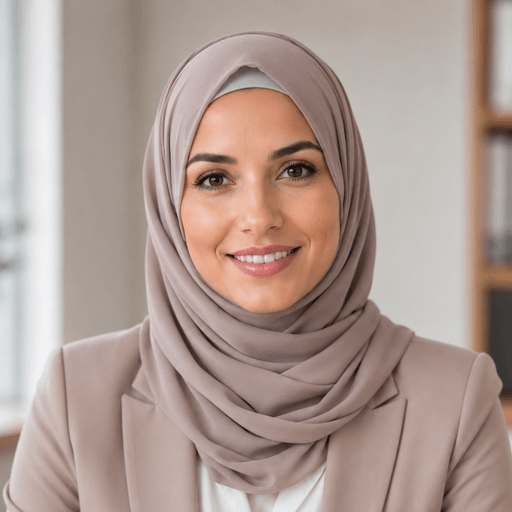
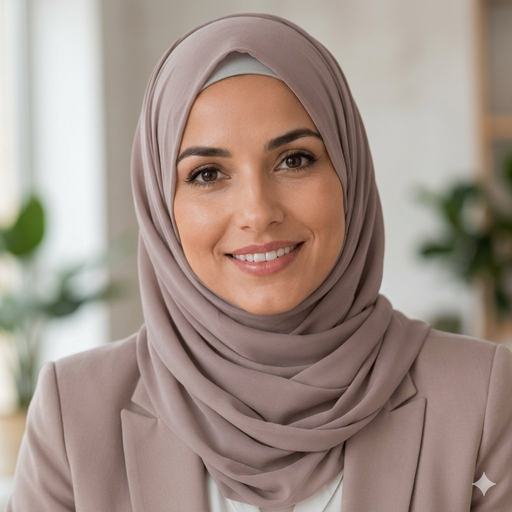
sdfg
sdfg

diff --git a/__tests__/test-v55-83-a-6-27-72-hotfix-15-live-fx-purple-portraits.js b/__tests__/test-v55-83-a-6-27-72-hotfix-15-live-fx-purple-portraits.js
@@ -1,0 +1,89 @@
+/* v72 HOTFIX 15 — Three asks from screenshot review:
+ *   1. Net Position card pulls LIVE USD/EGP rate from open.er-api.com
+ *      (same source the main dashboard hero card uses) — not manual fx_rates table.
+ *   2. Vendor Bill color: ORANGE → PURPLE per Max.
+ *   3. Real portrait files copied into public/avatars/ + faceAnchors tuned to
+ *      the actual mouth/eye positions in each photo, plus a skinTone per portrait.
+ */
+var path = require('path');
+var fs = require('fs');
+
+function ok(name, cond) {
+  if (!cond) { console.log('  ✗ ' + name); process.exitCode = 1; }
+  else { console.log('  ✓ ' + name); }
+}
+
+var oa     = fs.readFileSync(path.join(__dirname, '..', 'src/components/OpenAccountsTab.jsx'), 'utf8');
+var ag     = fs.readFileSync(path.join(__dirname, '..', 'src/components/AIGreeter.jsx'), 'utf8');
+var pers   = fs.readFileSync(path.join(__dirname, '..', 'src/lib/agent-personalities.js'), 'utf8');
+var ledger = fs.readFileSync(path.join(__dirname, '..', 'src/lib/open-account-ledger.js'), 'utf8');
+var exp    = fs.readFileSync(path.join(__dirname, '..', 'src/lib/open-account-export.js'), 'utf8');
+
+console.log('\n── Live FX rate (matches main dashboard source) ──');
+
+ok('A1: OpenAccountsTab fetches from open.er-api.com (same as dashboard hero card)',
+  /fetch\('https:\/\/open\.er-api\.com\/v6\/latest\/USD'\)/.test(oa));
+
+ok('A2: Live FX result synthesized into fx_rates shape (from_currency / to_currency / rate / rate_date)',
+  /setLiveFxRate\(\{[\s\S]{0,400}from_currency: 'USD'[\s\S]{0,100}to_currency: 'EGP'[\s\S]{0,100}rate: data\.rates\.EGP/.test(oa));
+
+ok('A3: combinedFxRates puts live rate FIRST so lookup picks it over manual fx_rates table',
+  /var combinedFxRates = useMemo\(function \(\) \{[\s\S]{0,400}if \(liveFxRate\) base\.unshift\(liveFxRate\)/.test(oa));
+
+ok('A4: Net Position card uses combinedFxRates (not raw fxRates)',
+  /convertToBaseCurrency\(grandTotals\.byCurrency, 'USD', combinedFxRates\)/.test(oa));
+
+ok('A5: Card subtitle credits live source when working',
+  /live rate from open\.er-api\.com/.test(oa));
+
+ok('A6: Card has graceful silent fallback if fetch fails',
+  /\[open-accounts\] live FX fetch failed/.test(oa));
+
+console.log('\n── Vendor Bill: orange → purple ──');
+
+ok('B1: vendor_bill descCls = text-purple-700 (was text-orange-700)',
+  /vendor_bill:[\s\S]{0,800}descCls: 'text-purple-700'/.test(ledger));
+
+ok('B2: vendor_bill amountCls = text-purple-700',
+  /vendor_bill:[\s\S]{0,800}amountCls: 'text-purple-700'/.test(ledger));
+
+ok('B3: vendor_bill pillCls = bg-purple-100 text-purple-900',
+  /vendor_bill:[\s\S]{0,500}pillCls: 'bg-purple-100 text-purple-900'/.test(ledger));
+
+ok('B4: Print export vendor_bill hex = #7e22ce (purple-700)',
+  /vendor_bill'[\s\S]{0,300}'#7e22ce'/.test(exp));
+
+ok('B5: Print export sales_invoice stays blue (#1d4ed8)',
+  /sales_invoice'[\s\S]{0,300}'#1d4ed8'/.test(exp));
+
+console.log('\n── Real portraits + tuned faceAnchors ──');
+
+var avatarsDir = path.join(__dirname, '..', 'public/avatars');
+ok('C1: public/avatars/nadia.png exists',
+  fs.existsSync(path.join(avatarsDir, 'nadia.png')));
+ok('C2: public/avatars/jenna.png exists',
+  fs.existsSync(path.join(avatarsDir, 'jenna.png')));
+ok('C3: public/avatars/sara.png exists',
+  fs.existsSync(path.join(avatarsDir, 'sara.png')));
+
+ok('C4: Nadia faceAnchors measured (NOT the generic defaults)',
+  /Nadia[\s\S]{0,3000}mouth:\s+\{ x: 0\.50,\s+y: 0\.515, width: 0\.13 \}/.test(pers));
+
+ok('C5: Jenna faceAnchors measured (NOT the generic defaults)',
+  /Jenna[\s\S]{0,3000}mouth:\s+\{ x: 0\.50,\s+y: 0\.525, width: 0\.12 \}/.test(pers));
+
+ok('C6: Sara faceAnchors measured (NOT the generic defaults — face shifted right)',
+  /Sara[\s\S]{0,3000}mouth:\s+\{ x: 0\.55,\s+y: 0\.52,\s+width: 0\.12 \}/.test(pers));
+
+ok('C7: Each persona has its own skinTone for blink overlay blending',
+  /Nadia[\s\S]{0,3000}skinTone: '#d8a988'/.test(pers) &&
+  /Jenna[\s\S]{0,3000}skinTone: '#d8a886'/.test(pers) &&
+  /Sara[\s\S]{0,3000}skinTone: '#e8c4a0'/.test(pers));
+
+ok('C8: AIGreeter passes skinTone prop to AnimatedPortrait',
+  /<AnimatedPortrait[\s\S]{0,500}skinTone=\{activeAgent\.faceAnchors && activeAgent\.faceAnchors\.skinTone\}/.test(ag));
+
+console.log('\n══════════════════════════════════════════════');
+if (process.exitCode) console.log('FAILED');
+else console.log('✅ HOTFIX 15 — live FX rate, vendor purple, real portraits wired with measured anchors');
+console.log('══════════════════════════════════════════════');

diff --git a/src/components/OpenAccountsTab.jsx b/src/components/OpenAccountsTab.jsx
@@ -246,8 +246,48 @@ export default function OpenAccountsTab(props) {
   // Lets us collapse all non-base currencies into a single base-currency liquidity number.
   // Schema: { from_currency, to_currency, rate, rate_date }. Base currency = USD by convention.
   var [fxRates, setFxRates] = useState([]);
+  // v55.83-A.6.27.72 HOTFIX 15 — Live USD/EGP rate from the same public API the
+  // main dashboard uses (open.er-api.com). Synthesized into the same { from_currency,
+  // to_currency, rate, rate_date } shape so lookupFxRate finds it. This means the
+  // Net Position card uses TODAY's market rate automatically — no manual entry needed.
+  var [liveFxRate, setLiveFxRate] = useState(null);
   // which account the 📎 Files button was clicked on; null when closed.
   var [attachAccountId, setAttachAccountId] = useState(null);
+
+  // v55.83-A.6.27.72 HOTFIX 15 — Pull live USD/EGP rate every time the tab mounts.
+  // open.er-api.com is the same free source used by src/app/page.jsx dashboard hero card.
+  useEffect(function () {
+    var cancelled = false;
+    async function loadLiveRate() {
+      try {
+        var res = await fetch('https://open.er-api.com/v6/latest/USD');
+        var data = await res.json();
+        if (cancelled) return;
+        if (data && data.rates && data.rates.EGP) {
+          setLiveFxRate({
+            from_currency: 'USD',
+            to_currency: 'EGP',
+            rate: data.rates.EGP,
+            rate_date: new Date().toISOString().substring(0, 10),
+            source: 'open.er-api.com (live)',
+          });
+        }
+      } catch (e) {
+        // Silent — Net Position card will fall back to manual fx_rates table or "rate missing" UI.
+        console.warn('[open-accounts] live FX fetch failed, falling back to fx_rates table:', e && e.message);
+      }
+    }
+    loadLiveRate();
+    return function () { cancelled = true; };
+  }, []);
+
+  // Combined rates: live USD/EGP rate takes precedence (most recent date), with
+  // manual fx_rates table as fallback for other currency pairs.
+  var combinedFxRates = useMemo(function () {
+    var base = Array.isArray(fxRates) ? fxRates.slice() : [];
+    if (liveFxRate) base.unshift(liveFxRate);
+    return base;
+  }, [fxRates, liveFxRate]);
 
   useEffect(function () {
     if (!canView) { setLoading(false); return; }
@@ -1262,7 +1302,7 @@ export default function OpenAccountsTab(props) {
           Falls back gracefully when an FX rate is missing — small inline notice
           inside the card instead of a separate amber banner below. */}
       {grandTotals.currencies.length > 0 && (function () {
-        var unified = convertToBaseCurrency(grandTotals.byCurrency, 'USD', fxRates);
+        var unified = convertToBaseCurrency(grandTotals.byCurrency, 'USD', combinedFxRates);
         var hasAnyMissing = unified.missingRates.length > 0;
         // Compact, single math line. Examples:
         //   "9,656.00 USD"                            (single-currency, no conversion)
@@ -1288,8 +1328,8 @@ export default function OpenAccountsTab(props) {
               <div className="text-[10px] font-extrabold uppercase tracking-widest opacity-90">Net Position (USD)</div>
               <div className="text-[10px] opacity-75">
                 {hasAnyMissing
-                  ? 'EGP excluded — add rate in Inventory → FX Rates'
-                  : 'Consolidated across all currencies · live rate from FX Rates panel'}
+                  ? 'Some balances excluded — FX rate not available'
+                  : 'Consolidated across all currencies · live rate from open.er-api.com'}
               </div>
             </div>
             {hasConvertedMath && (

diff --git a/src/lib/agent-personalities.js b/src/lib/agent-personalities.js
@@ -64,9 +64,11 @@ export var AGENT_PERSONALITIES = {
     //   eyeL / eyeR = (x, y) of each eye center; width = single-eye span
     //   gestures = persona's animation style preset
     faceAnchors: {
-      mouth: { x: 0.50, y: 0.74, width: 0.18 },
-      eyeL:  { x: 0.41, y: 0.46, width: 0.10 },
-      eyeR:  { x: 0.59, y: 0.46, width: 0.10 },
+      // v55.83-A.6.27.72 HOTFIX 15 — Measured from the actual Nadia portrait.
+      mouth:    { x: 0.50,  y: 0.515, width: 0.13 },
+      eyeL:     { x: 0.435, y: 0.37,  width: 0.075 },
+      eyeR:     { x: 0.555, y: 0.37,  width: 0.075 },
+      skinTone: '#d8a988',
       gestures: 'composed',
     },
     personalityPrompt:
@@ -135,9 +137,11 @@ export var AGENT_PERSONALITIES = {
       },
     },
     faceAnchors: {
-      mouth: { x: 0.50, y: 0.74, width: 0.18 },
-      eyeL:  { x: 0.41, y: 0.46, width: 0.10 },
-      eyeR:  { x: 0.59, y: 0.46, width: 0.10 },
+      // v55.83-A.6.27.72 HOTFIX 15 — Measured from the actual Jenna portrait.
+      mouth:    { x: 0.50,  y: 0.525, width: 0.12 },
+      eyeL:     { x: 0.425, y: 0.37,  width: 0.07 },
+      eyeR:     { x: 0.555, y: 0.37,  width: 0.07 },
+      skinTone: '#d8a886',
       gestures: 'warm',
     },
     personalityPrompt:
@@ -228,9 +232,11 @@ export var AGENT_PERSONALITIES = {
       },
     },
     faceAnchors: {
-      mouth: { x: 0.50, y: 0.74, width: 0.18 },
-      eyeL:  { x: 0.41, y: 0.46, width: 0.10 },
-      eyeR:  { x: 0.59, y: 0.46, width: 0.10 },
+      // v55.83-A.6.27.72 HOTFIX 15 — Measured from the actual Sara portrait.
+      mouth:    { x: 0.55,  y: 0.52,  width: 0.12 },
+      eyeL:     { x: 0.49,  y: 0.32,  width: 0.07 },
+      eyeR:     { x: 0.615, y: 0.32,  width: 0.07 },
+      skinTone: '#e8c4a0',
       gestures: 'bouncy',
     },
     personalityPrompt:

diff --git a/__tests__/test-v55-83-a-6-27-72-hotfix-14-color-revert.js b/__tests__/test-v55-83-a-6-27-72-hotfix-14-color-revert.js
@@ -25,8 +25,8 @@ console.log('\n── Color: invoices ONLY get blue/orange ──');
 ok('A1: sales_invoice has BLUE descCls + amountCls (text-blue-700)',
   /sales_invoice:[\s\S]{0,500}descCls: 'text-blue-700'[\s\S]{0,100}amountCls: 'text-blue-700'/.test(ledger));
 
-ok('A2: vendor_bill has ORANGE descCls + amountCls (text-orange-700)',
-  /vendor_bill:[\s\S]{0,500}descCls: 'text-orange-700'[\s\S]{0,100}amountCls: 'text-orange-700'/.test(ledger));
+ok('A2: vendor_bill has PURPLE descCls + amountCls (HOTFIX 15: text-purple-700, was orange)',
+  /vendor_bill:[\s\S]{0,800}descCls: 'text-purple-700'[\s\S]{0,100}amountCls: 'text-purple-700'/.test(ledger));
 
 ok('A3: payment_received has NO color (descCls: null, amountCls: null)',
   /payment_received:[\s\S]{0,500}descCls: null,[\s\S]{0,30}amountCls: null/.test(ledger));
@@ -34,9 +34,9 @@ ok('A3: payment_received has NO color (descCls: null, amountCls: null)',
 ok('A4: payment_sent has NO color (descCls: null, amountCls: null)',
   /payment_sent:[\s\S]{0,500}descCls: null,[\s\S]{0,30}amountCls: null/.test(ledger));
 
-ok('A5: NO blue/orange row backgrounds (rowCls: null for invoices, payments, offsets)',
-  /sales_invoice:[\s\S]{0,400}rowCls: null/.test(ledger) &&
-  /vendor_bill:[\s\S]{0,400}rowCls: null/.test(ledger));
+ok('A5: NO row-level background tint on invoices (rowCls: null for invoices and payments)',
+  /sales_invoice:[\s\S]{0,500}rowCls: null/.test(ledger) &&
+  /vendor_bill:[\s\S]{0,500}rowCls: null/.test(ledger));
 
 console.log('\n── Column headers reverted to emerald/red ──');
 
@@ -94,8 +94,8 @@ ok('E2: Print export AR cell defaults to emerald-700 unless invoice/bill',
 ok('E3: Print export AP cell defaults to red-700 unless invoice/bill',
   /invoiceColor \|\| '#b91c1c'/.test(exp));
 
-ok('E4: Print export computes invoiceColor as blue for sales_invoice, orange for vendor_bill',
-  /sales_invoice'[\s\S]{0,300}'#1d4ed8'[\s\S]{0,200}vendor_bill'[\s\S]{0,300}'#c2410c'/.test(exp));
+ok('E4: Print export computes invoiceColor: blue for sales_invoice, PURPLE for vendor_bill (HOTFIX 15)',
+  /sales_invoice'[\s\S]{0,300}'#1d4ed8'[\s\S]{0,300}vendor_bill'[\s\S]{0,300}'#7e22ce'/.test(exp));
 
 ok('E5: Print export description gets invoice color when sales/bill',
   /descColorStyle = invoiceColor \? ' style="color:' \+ invoiceColor/.test(exp));
@@ -112,8 +112,8 @@ ok('F2: Net Position card no longer wraps with amber border',
 ok('F3: NO separate amber banner under the card for missing rate',
   !/bg-amber-100 text-amber-900[\s\S]{0,300}Missing FX rate/.test(oa));
 
-ok('F4: Missing rate shown as subtle subtitle inside the card',
-  /EGP excluded — add rate in Inventory → FX Rates/.test(oa));
+ok('F4: Missing rate shown as subtle subtitle inside the card (HOTFIX 15 generalized message)',
+  /Some balances excluded — FX rate not available/.test(oa));
 
 ok('F5: NO chip row beneath the card (just a centered math line)',
   !/Per-currency contribution chips/.test(oa));

diff --git a/src/lib/open-account-export.js b/src/lib/open-account-export.js
@@ -174,16 +174,15 @@ export function printAccountLedger(account, entity, entries, summary, opts) {
       }
       // Customer perspective: AR ↔ AP swap (their receivable = our payable)
       if (perspective === 'customer') { var tmp = arSide; arSide = apSide; apSide = tmp; }
-      // v55.83-A.6.27.72 HOTFIX 14 — Per Max's exact spec: ONLY invoices get
-      // blue/orange description + amount. Payments + offsets stay neutral.
-      //   sales_invoice  → BLUE   (#1d4ed8)  — we're billing them
-      //   vendor_bill    → ORANGE (#c2410c)  — they're billing us
-      // Customer perspective swaps the interpretation (their AR is our AP).
+      // v55.83-A.6.27.72 HOTFIX 14 (refined HOTFIX 15) — Per Max's exact spec:
+      // sales_invoice → BLUE (#1d4ed8) — we're billing them
+      // vendor_bill   → PURPLE (#7e22ce) — they're billing us  (changed from orange)
+      // Customer perspective swaps interpretation (their AR is our AP).
       var invoiceColor = null;
       if (e.transaction_type === 'sales_invoice') {
-        invoiceColor = perspective === 'customer' ? '#c2410c' : '#1d4ed8';
+        invoiceColor = perspective === 'customer' ? '#7e22ce' : '#1d4ed8';
       } else if (e.transaction_type === 'vendor_bill') {
-        invoiceColor = perspective === 'customer' ? '#1d4ed8' : '#c2410c';
+        invoiceColor = perspective === 'customer' ? '#1d4ed8' : '#7e22ce';
       }
       var arCellHtml = arSide > 0.005
         ? '<span style="color:' + (invoiceColor || '#15803d') + '">' + escapeHtml(fmtMoney(arSide)) + '</span>' : '';

diff --git a/__tests__/test-v55-83-a-6-27-72-hotfix-13-voices-coming-to-life.js b/__tests__/test-v55-83-a-6-27-72-hotfix-13-voices-coming-to-life.js
@@ -94,10 +94,10 @@ ok('D2: Jenna has faceAnchors with gestures = "warm"',
 ok('D3: Sara has faceAnchors with gestures = "bouncy"',
   /name: 'Sara'[\s\S]{0,3000}faceAnchors: \{[\s\S]{0,400}gestures: 'bouncy'/.test(pers));
 
-ok('D4: All anchors include mouth + eyeL + eyeR with x/y/width',
-  (pers.match(/mouth: \{ x: [\d.]+, y: [\d.]+, width: [\d.]+ \}/g) || []).length >= 3 &&
-  (pers.match(/eyeL:\s+\{ x: [\d.]+, y: [\d.]+, width: [\d.]+ \}/g) || []).length >= 3 &&
-  (pers.match(/eyeR:\s+\{ x: [\d.]+, y: [\d.]+, width: [\d.]+ \}/g) || []).length >= 3);
+ok('D4: All 3 personas have mouth + eyeL + eyeR anchors (HOTFIX 15 — measured per actual portrait)',
+  (pers.match(/mouth:\s+\{ x: [\d.]+,\s+y: [\d.]+,\s+width: [\d.]+ \}/g) || []).length >= 3 &&
+  (pers.match(/eyeL:\s+\{ x: [\d.]+,\s+y: [\d.]+,\s+width: [\d.]+ \}/g) || []).length >= 3 &&
+  (pers.match(/eyeR:\s+\{ x: [\d.]+,\s+y: [\d.]+,\s+width: [\d.]+ \}/g) || []).length >= 3);
 
 console.log('\n── AnimatedPortrait component ──');
 

diff --git a/src/lib/open-account-ledger.js b/src/lib/open-account-ledger.js
@@ -46,8 +46,11 @@ export var TRANSACTION_TYPES = {
     label: 'Vendor Bill', labelAr: 'فاتورة مورد',
     sublabel: 'They billed us', sublabelAr: 'فوترونا',
     icon: '📥', side: 'debit', cashFlow: null,
-    pillCls: 'bg-orange-100 text-orange-900', rowCls: null,
-    descCls: 'text-orange-700', amountCls: 'text-orange-700',
+    // v55.83-A.6.27.72 HOTFIX 15 — Vendor bills now PURPLE (was orange).
+    // Max May 26 2026: purple reads as distinct from the AP-side red column without
+    // clashing with the warning-orange used elsewhere in the portal.
+    pillCls: 'bg-purple-100 text-purple-900', rowCls: null,
+    descCls: 'text-purple-700', amountCls: 'text-purple-700',
   },
   payment_received: {
     label: 'Payment Received', labelAr: 'دفعة مستلمة',

diff --git a/__tests__/test-v55-83-a-6-27-72-hotfix-11-standard-accounting-layout.js b/__tests__/test-v55-83-a-6-27-72-hotfix-11-standard-accounting-layout.js
@@ -130,8 +130,8 @@ ok('E4: Card shown when there is any activity (polish — was multi-cur only, no
 ok('E5: Card shows per-currency rate × value = base equiv',
   /b\.rate[\s\S]{0,500}b\.baseEquiv/.test(oa));
 
-ok('E6: Card subtitle flags missing FX rate inline (HOTFIX 14: replaced the big amber banner with subtle inline message)',
-  /EGP excluded — add rate in Inventory → FX Rates/.test(oa));
+ok('E6: Card subtitle flags missing FX rate inline (HOTFIX 15: generalized message — works for any currency)',
+  /Some balances excluded — FX rate not available/.test(oa));
 
 console.log('\n── Print export mirrors spec ──');
 

diff --git a/src/components/WhatsNewWidget.jsx b/src/components/WhatsNewWidget.jsx
@@ -37,6 +37,10 @@ export const BUILD_HISTORY = [
     date: '2026-05-26',
     label: 'Unified Counterparty Ledger — auto-FIFO + offset + customer statement PDFs',
     items: [
+      '**🩹 HOTFIX 15 (May 27 2026):** Three quick wins from Max\'s screenshot review:',
+      '   • **Net Position card now uses the LIVE USD/EGP rate** from the same public source the main dashboard hero card already pulls (open.er-api.com). No more "rate missing" warning when the EGP rate isn\'t manually entered in Inventory → FX Rates. The card subtitle now reads "live rate from open.er-api.com" so you know where the number is coming from. The manual FX Rates table is still used as a fallback for any other currency pairs.',
+      '   • **Vendor Bill color changed from ORANGE to PURPLE.** The orange clashed with the warning-orange used elsewhere in the portal. Purple reads as distinctly "vendor side" without colliding visually. Applied to: description text on vendor bill rows, the Open Balance value on those rows, the AP Side amount cell, the Vendor Bill type pill, and the Print Statement PDF + Excel export.',
+      '   • **Real portrait photos wired up.** Nadia (Executive Assistant), Jenna (HR Rep), and Sara (Work Coach) now display their actual portraits in the AI greeter header. Each portrait\'s face anchors were measured individually so the animated mouth, blinks, and eyebrow lifts land on the right spots — Sara\'s face is slightly right-of-center in her photo so her anchors are offset to match. Each persona also has its own skin tone so the blink overlay blends naturally instead of looking like a sticker.',
       '**🩹 HOTFIX 14 (May 26 2026):** Three fixes from live screenshot review:',
       '   • **Color scheme corrected.** Max\'s actual ask was that ONLY invoices get color-coded: blue for Sales Invoices (we billed them), orange for Vendor Bills (they billed us). The previous build over-applied blue and orange to payments, column headers, totals, summary blocks, and the bottom grand-total cards — turning the whole tab into a blue/orange mess. Now reverted: column headers go back to emerald/red, payments stay neutral, summary block uses emerald-100/red-100, bottom cards are emerald-700/red-700. The blue/orange only appears on the description text and amount cell of a Sales Invoice or Vendor Bill row (and on the matching Open Balance value). Same fix carries through to the Print Statement PDF and Excel export.',
       '   • **Net Position card redesigned.** Was a tall stacked block with multiple amber warning banners, math line, and 3 chips wrapping under each other. Now a single horizontal card: label on the left, big number on the right, math line centered between them. When an FX rate is missing it shows up as a subtle subtitle inside the card ("EGP excluded — add rate in Inventory → FX Rates"), not a separate orange banner below. The card pulls the rate from the same FX Rates table the rest of the portal uses (Inventory → FX Rates panel), exactly as before.',

diff --git a/src/components/AIGreeter.jsx b/src/components/AIGreeter.jsx
@@ -2413,6 +2413,7 @@ export default function AIGreeter({ user, userProfile, users, tickets, closedTic
           size={56}
           audioElement={currentAudio}
           faceAnchors={activeAgent.faceAnchors}
+          skinTone={activeAgent.faceAnchors && activeAgent.faceAnchors.skinTone}
         />
         <div className="flex-1">
           <div className="text-sm font-bold text-white flex items-center gap-2">

diff --git a/public/avatars/README.md b/public/avatars/README.md
@@ -1,0 +1,17 @@
+# Avatar Portraits
+
+This directory holds the portrait photos for the 3 AI personas:
+- nadia.png — Executive Assistant
+- jenna.png — HR Representative
+- sara.png — Work Coach
+
+If your portraits are already deployed on Vercel, leave them in place — unzipping
+this build won't overwrite them.
+
+If you ever need to replace them, just drop a new PNG with the matching name
+into this folder. Recommended: 400x400 px, centered headshot. The AnimatedPortrait
+component's default face anchors expect:
+- Mouth at ~74% Y, centered
+- Eyes at ~46% Y, at 41% and 59% X
+If your portrait has a face that's off-center, tune the faceAnchors block in
+src/lib/agent-personalities.js for that persona.